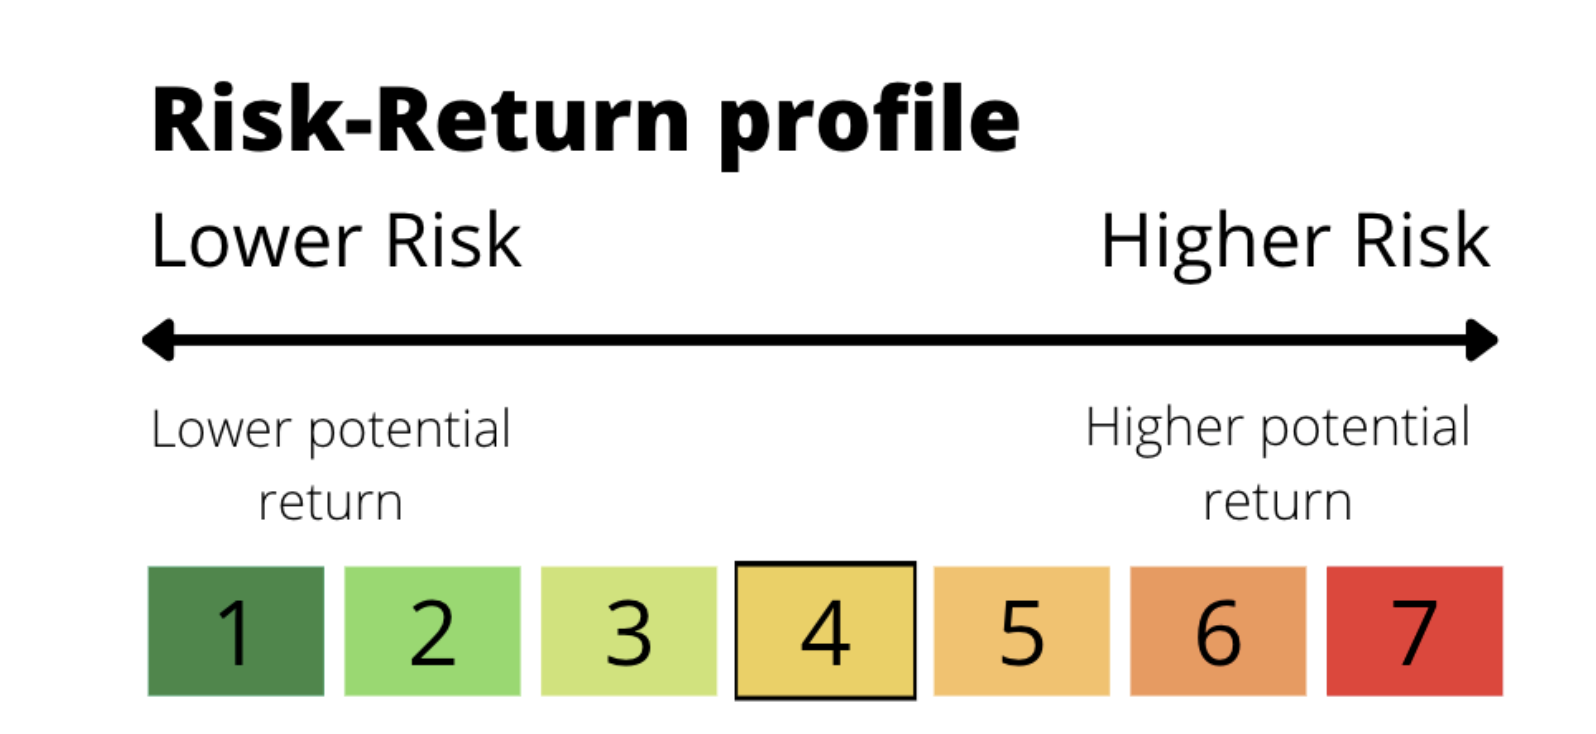
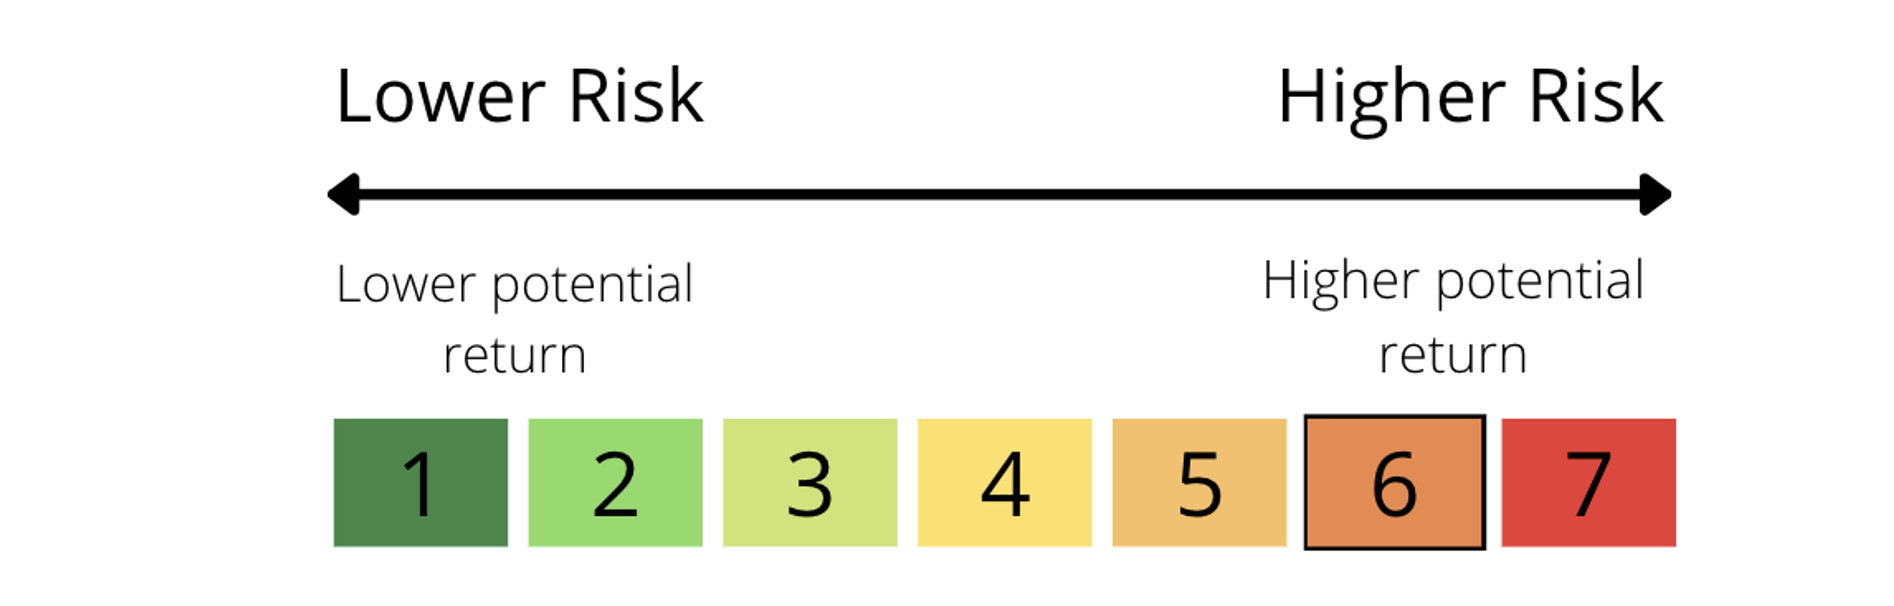
change risk profile

diff --git a/about.html b/about.html
@@ -90,7 +90,7 @@
                     <!-- <span>our solid background on finance</span> -->
                     <h2>Fund  <em>Information</em></h2>
                     <p> The risk/return category is based on the historical performance of the assets held in the Fund over the last 4 years. Therefore, this risk assessment may not be a reliable indicator of future risk and may be subject to changes over time. Being in the lowest category does not guarantee a risk-free investment.
-                     <br> <br> As a result of its exposures, the Fund has been classified in category 4 associated with a volatility between 5% and 10% in the last 4 years.</p>
+                     <br> <br> As a result of its exposures, the Fund has been classified in category 6 associated with a volatility between 15% and 25% in the last 4 years.</p>
                      <h2>Fund  <em>Fees</em></h2>
                      <p>Subscription fee 0% </p>
                      <p> Redemption fee 0% </p>
